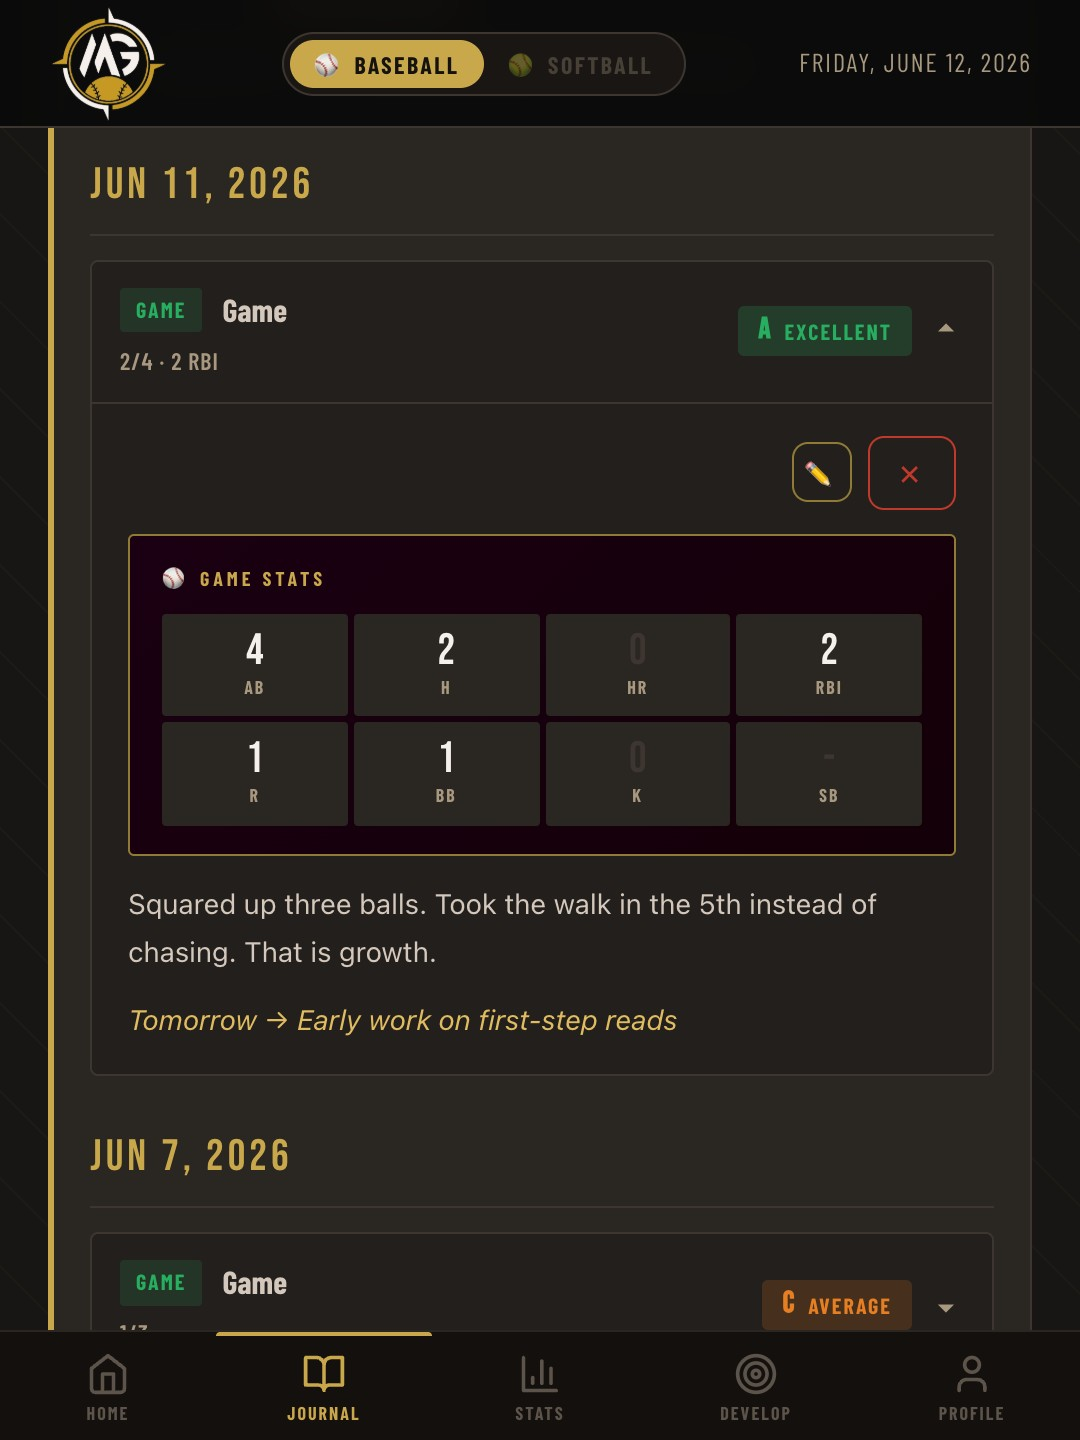
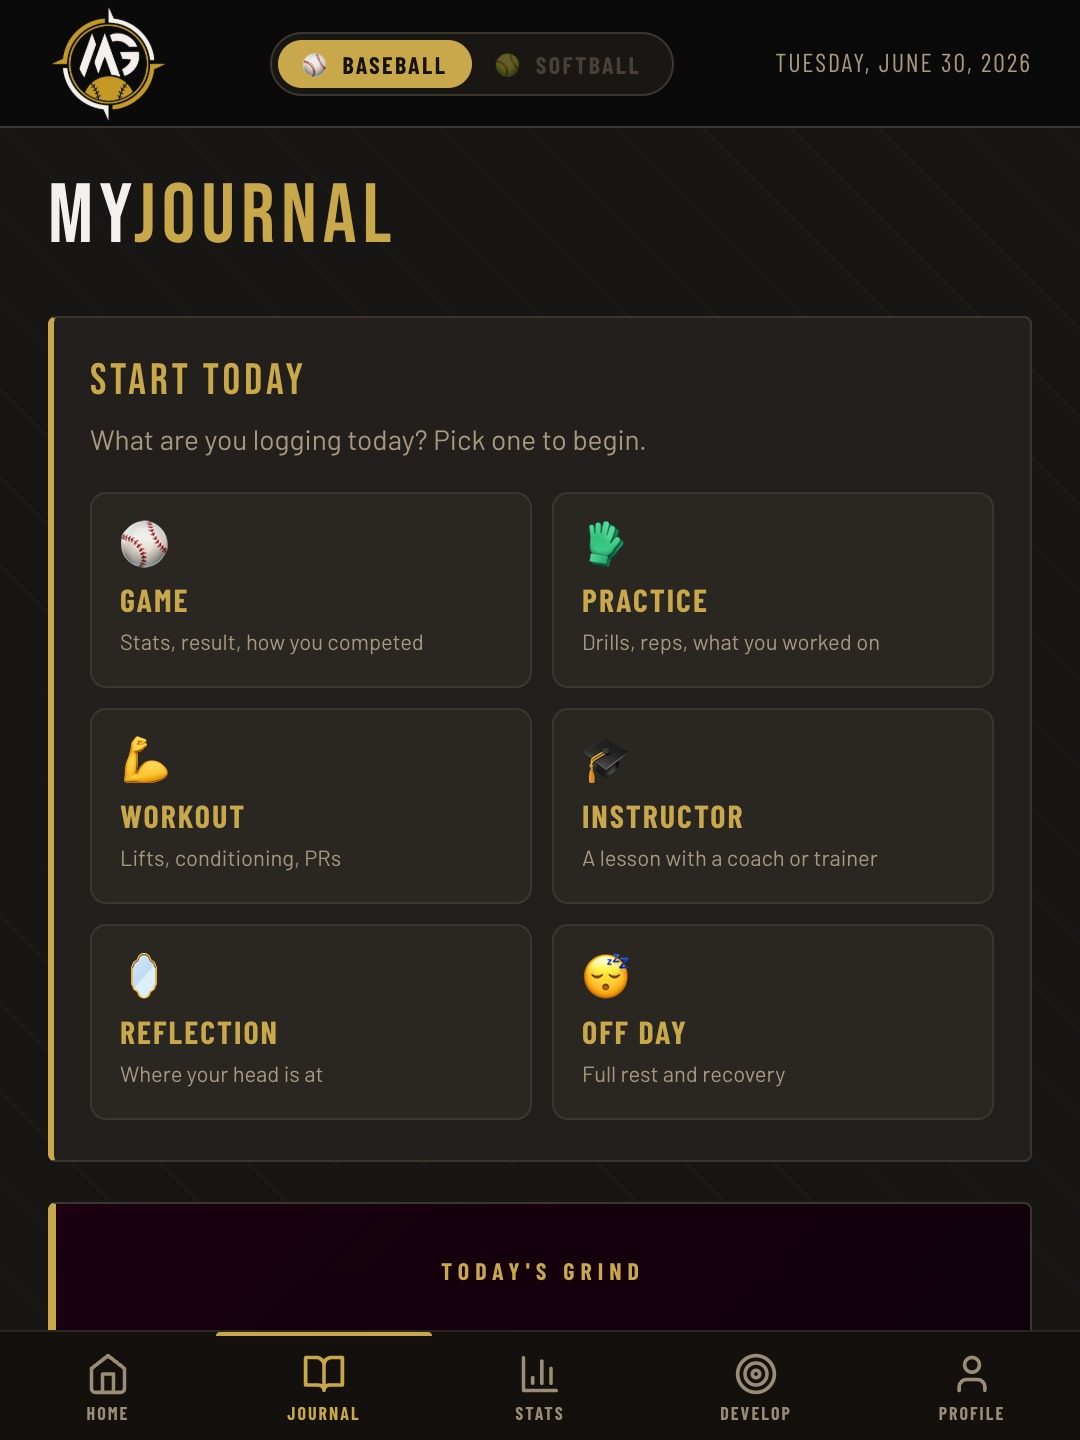
Landing: reshoot journal screenshot to the new Start Today chooser
Replaced 02-game.jpg with a fresh dark capture of the redesigned journal
(the Start Today entry-type chooser), captured headless at 1080x1440 via
system Chrome. Updated alt + caption ("Start today. Pick what you're
logging."). Other five screenshots unchanged (still dark, per Coach).

Branch only; not deployed.

diff --git a/index.html b/index.html
@@ -1665,8 +1665,8 @@ fbq('init','326334441984368');fbq('track','PageView');
         <figcaption>The streak, the week, the work. One glance.</figcaption>
       </figure>
       <figure>
-        <img src="/assets/screenshots/02-game.jpg" width="1080" height="1440" alt="MyGrind game journal entry with a game stats grid, an honest A self-grade, what happened, and a goal for tomorrow" loading="lazy">
-        <figcaption>Log every game. Stats, plus an honest self-grade.</figcaption>
+        <img src="/assets/screenshots/02-game.jpg" width="1080" height="1440" alt="MyGrind journal Start Today screen: pick what to log today — game, practice, workout, instructor, reflection, or off day" loading="lazy">
+        <figcaption>Start today. Pick what you're logging.</figcaption>
       </figure>
       <figure>
         <img src="/assets/screenshots/03-academics.jpg" width="1080" height="1440" alt="MyGrind academics screen with a 3.67 auto-calculated GPA, a target GPA, and college eligibility status cards for NCAA D1, D2, D3, NAIA, and JUCO" loading="lazy">